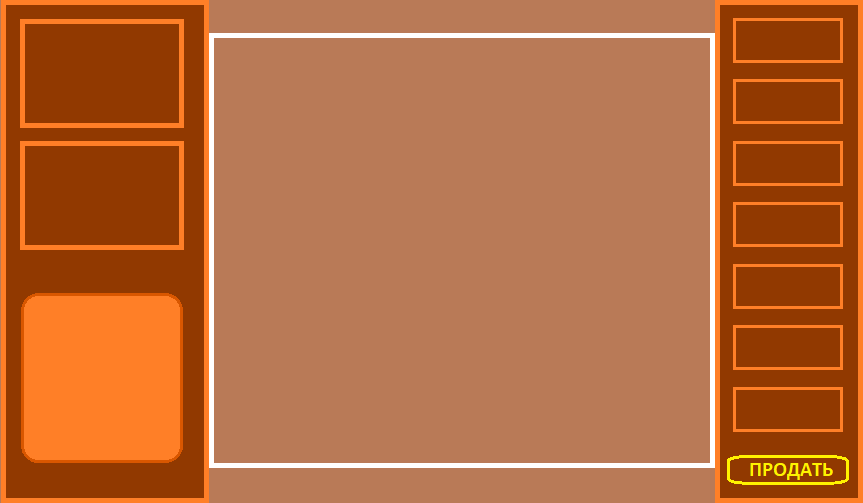
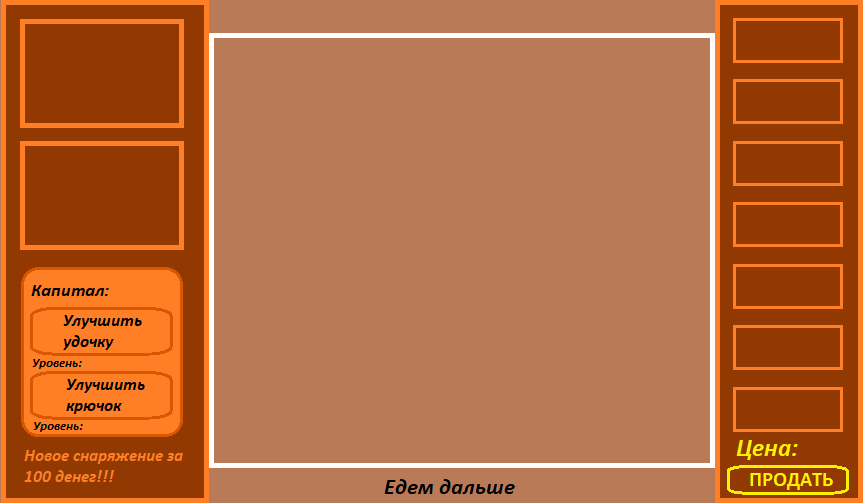
MY JOB IS DONE

Changed region(s): [[0.0, 0.507, 0.2109, 0.9543], [0.8436, 0.8648, 0.9942, 0.9841], [0.4218, 0.9543, 0.6025, 0.9841]]

diff --git a/main.py b/main.py
@@ -36,6 +36,10 @@ def start_game(screen):
     fish_founded = False
     fishing_butt = UI.Button(200, 70, 240, 380, butt=pygame.image.load("Source/Button.png"))
     infishing_butt = UI.Button(200, 70, 240, 380, butt=pygame.image.load("Source/Stop Button.png"))
+    sell_butt = UI.Button(123, 30, 727, 465)
+    up_hook_butt = UI.Button(140, 50, 30, 370)
+    up_rod_butt = UI.Button(140, 50, 30, 306)
+    bg_butt = UI.Button(260, 30, 375, 470)
     timer = 0
     last_time = 0
     fishing_window = pygame.image.load("Source/Fishing Window.png")
@@ -44,20 +48,42 @@ def start_game(screen):
     movement_x = 0
     movement_y = 0
     mouse = UI.Mouse(pygame.mouse)
-    current_fishing_road = 1
-    current_hook = 0
+    current_fishing_rod = cur.execute("SELECT rod FROM Inventory WHERE Player_ID='1'").fetchone()[0]
+    current_hook = cur.execute("SELECT hook FROM Inventory WHERE Player_ID='1'").fetchone()[0]
     fishing_progress = 0
+    sell_price = 0
+    money = cur.execute("SELECT money FROM Inventory WHERE Player_ID='1'").fetchone()[0]
     fishes = []
     fishes_for_draw = []
-    if res[0] != "":
+    background = 0
+    if res[0] != "" or res[0] is not None:
         for i in range(len(res[0].split(",")) - 1):
             fishes.append([res[0].split(",")[i], res[1].split(",")[i]])
             fishes_for_draw.append(pygame.transform.scale(pygame.image.load(Data.fishes[int(res[0].split(",")[i])]),
                                    (104, 39)))
+            sell_price += res[1].split(",")[i]
     while game_running:
         screen.blit(bg_ingame, (0, 0))
-        screen.blit(Data.fishing_roads[current_fishing_road], (25, 24))
+        screen.blit(Data.backgrounds[background % len(Data.backgrounds)], (214, 38))
+        screen.blit(Data.fishing_rods[current_fishing_rod % len(Data.fishing_rods)], (25, 24))
         screen.blit(Data.hooks[current_hook], (25, 146))
+        UI.print_text(screen, str(sell_price), 805, 434, 25, [255, 244, 0])
+        UI.print_text(screen, str(money), 115, 280, 20, [0, 0, 0])
+        UI.print_text(screen, str(current_fishing_rod), 88, 355, 13, [0, 0, 0])
+        UI.print_text(screen, str(current_hook), 88, 418, 13, [0, 0, 0])
+        if bg_butt.change_bg():
+            background += 1
+        if sell_butt.sell(cur, sell_price):
+            fishes = []
+            fishes_for_draw = []
+            money += sell_price
+            sell_price = 0
+        if up_rod_butt.up_rod(cur):
+            money -= 100
+            current_fishing_rod += 1
+        if up_hook_butt.up_hook(cur):
+            money -= 100
+            current_hook += 1
         x = 21
         for i in fishes_for_draw:
             screen.blit(i, (736, x))
@@ -71,7 +97,7 @@ def start_game(screen):
         else:
             is_fishing = not infishing_butt.draw_fishing(screen)
             #гэмблинг на поимку с шансом, увеличивающимся каждую секунду
-            if not fish_founded and random.randint(0, 100) > 10 - (time.time() - timer) and int(last_time) < int(time.time()):
+            if not fish_founded and random.randint(0, 100) > 100 - (time.time() - timer) - current_hook * 15 and int(last_time) < int(time.time()):
                 fish_founded = True
                 fishing_progress = 0
             if fish_founded:
@@ -82,7 +108,7 @@ def start_game(screen):
                 if int(last_time / 0.02) < int(time.time() / 0.02):
                     fish_pos = ((fish_pos[0] + movement_x) % 375, (fish_pos[1] + movement_y) % 300)
                 screen.blit(fish, (fish_pos[0] + 255, fish_pos[1] + 55))
-                if mouse.fishing(screen, 30 + 10 * current_fishing_road, (fish_pos[0] + 277, fish_pos[1] + 65)):
+                if mouse.fishing(screen, 30 + 10 * current_fishing_rod, (fish_pos[0] + 277, fish_pos[1] + 65)):
                     if int(last_time / 0.02) < int(time.time() / 0.02):
                         fishing_progress += 1
                 elif fishing_progress > 0:
@@ -94,9 +120,11 @@ def start_game(screen):
                     is_fishing = False
                     infishing_butt.flag = False
                     fishing_butt.flag = True
-                    z = random.randint(0, len(Data.fishes) - 1)
-                    fishes.append([z, random.randint(15, 30)])
-                    fishes_for_draw.append(pygame.transform.scale(pygame.image.load(Data.fishes[z]), (104, 39)))
+                    z1 = random.randint(0, len(Data.fishes) - 1)
+                    z2 = random.randint(15, 30)
+                    fishes.append([z1, z2])
+                    sell_price += z2
+                    fishes_for_draw.append(pygame.transform.scale(pygame.image.load(Data.fishes[z1]), (104, 39)))
                     ans = ''
                     ans2 = ''
                     for i, j in fishes:
@@ -104,7 +132,7 @@ def start_game(screen):
                         ans2 = ans2 + str(j) + ','
                     cur.execute("UPDATE Inventory SET fish_pool = '{}' WHERE Player_ID = '1'".format(ans))
                     cur.execute("UPDATE Inventory SET price_pool = '{}' WHERE Player_ID = '1'".format(ans2))
-                last_time = time.time()
+            last_time = time.time()
         for event in pygame.event.get():
             if event.type == pygame.QUIT:
                 con.commit()

diff --git a/UI.py b/UI.py
@@ -7,8 +7,8 @@ import main
 # ВСЕ, ЧТО ЗАКОММЕНЧЕНО, НУЖНО НА СЛУЧАЙ, ЕСЛИ КНОПКУ НАДО БУДЕТ ОТРИСОВЫВАТЬ
 
 
-def print_text(screen, message, x, y, font_size, font_color=(0, 0, 0), font_type="Palatino Linotype.ttf"):
-    font_type = pygame.font.Font(font_type, font_size)
+def print_text(screen, message, x, y, font_size, font_color=(0, 0, 0), font_type="arial"):
+    font_type = pygame.font.SysFont(font_type, font_size)
     text = font_type.render(message, True, font_color)
     screen.blit(text, (x, y))
 
@@ -48,10 +48,67 @@ class Button:
             if click[0] == 1:
                 main.start_game(screen)
 
+    def sell(self, cur, price):
+        mouse = pygame.mouse.get_pos()
+        click = pygame.mouse.get_pressed()
+        if self.x <= int(mouse[0]) <= int(self.x + self.width) and self.y < int(mouse[1]) < self.y + self.height:
+            if click[0] == 1:
+                money = cur.execute("SELECT money FROM Inventory WHERE Player_ID='1'").fetchone()[0]
+                cur.execute("UPDATE Inventory SET money = '{}' WHERE Player_ID = '1'".format(money + price))
+                cur.execute("UPDATE Inventory SET fish_pool = '' WHERE Player_ID = '1'")
+                cur.execute("UPDATE Inventory SET price_pool = '' WHERE Player_ID = '1'")
+                return True
+        return False
+
     def draw_fishing(self, screen):
         mouse = pygame.mouse.get_pos()
         click = pygame.mouse.get_pressed()
         screen.blit(self.button, (self.x, self.y))
+        if self.x <= int(mouse[0]) <= int(self.x + self.width) and self.y < int(mouse[1]) < self.y + self.height:
+            if click[0] == 1 and self.flag:
+                self.flag = False
+                return True
+        else:
+            self.flag = True
+        return False
+
+    def up_hook(self, cur):
+        mouse = pygame.mouse.get_pos()
+        click = pygame.mouse.get_pressed()
+        if self.x <= int(mouse[0]) <= int(self.x + self.width) and self.y < int(mouse[1]) < self.y + self.height:
+            if click[0] == 1 and self.flag:
+                self.flag = False
+                money = cur.execute("SELECT money FROM Inventory WHERE Player_ID='1'").fetchone()[0]
+                if money < 100:
+                    return False
+                cur.execute("UPDATE Inventory SET money = '{}' WHERE Player_ID = '1'".format(money - 100))
+                hook = cur.execute("SELECT hook FROM Inventory WHERE Player_ID='1'").fetchone()[0]
+                cur.execute("UPDATE Inventory SET hook = '{}' WHERE Player_ID = '1'".format(hook + 1))
+                return True
+        else:
+            self.flag = True
+        return False
+
+    def up_rod(self, cur):
+        mouse = pygame.mouse.get_pos()
+        click = pygame.mouse.get_pressed()
+        if self.x <= int(mouse[0]) <= int(self.x + self.width) and self.y < int(mouse[1]) < self.y + self.height:
+            if click[0] == 1 and self.flag:
+                self.flag = False
+                money = cur.execute("SELECT money FROM Inventory WHERE Player_ID='1'").fetchone()[0]
+                if money < 100:
+                    return False
+                cur.execute("UPDATE Inventory SET money = '{}' WHERE Player_ID = '1'".format(money - 100))
+                rod = cur.execute("SELECT rod FROM Inventory WHERE Player_ID='1'").fetchone()[0]
+                cur.execute("UPDATE Inventory SET rod = '{}' WHERE Player_ID = '1'".format(rod + 1))
+                return True
+        else:
+            self.flag = True
+        return False
+
+    def change_bg(self):
+        mouse = pygame.mouse.get_pos()
+        click = pygame.mouse.get_pressed()
         if self.x <= int(mouse[0]) <= int(self.x + self.width) and self.y < int(mouse[1]) < self.y + self.height:
             if click[0] == 1 and self.flag:
                 self.flag = False

diff --git a/Data.py b/Data.py
@@ -1,9 +1,11 @@
 import pygame.image
 
-fishing_roads = [pygame.transform.scale(pygame.image.load("Source/Fishing road 1.png"), (154, 99)),
+fishing_rods = [pygame.transform.scale(pygame.image.load("Source/Fishing road 1.png"), (154, 99)),
                  pygame.transform.scale(pygame.image.load("Source/Fishing road 2.png"), (154, 99))]
 hooks = [pygame.transform.scale(pygame.image.load("Source/Hook 1.png"), (154, 99)),
          pygame.transform.scale(pygame.image.load("Source/Hook 2.png"), (154, 99))]
 fishes = ["Source/Fish 1.png",
           "Source/Fish 2.png",
           "Source/Fish 3.png"]
+backgrounds = [pygame.transform.scale(pygame.image.load("Source/BG 1.jpg"), (496, 425)),
+               pygame.transform.scale(pygame.image.load("Source/BG 2.jpg"), (496, 425))]
